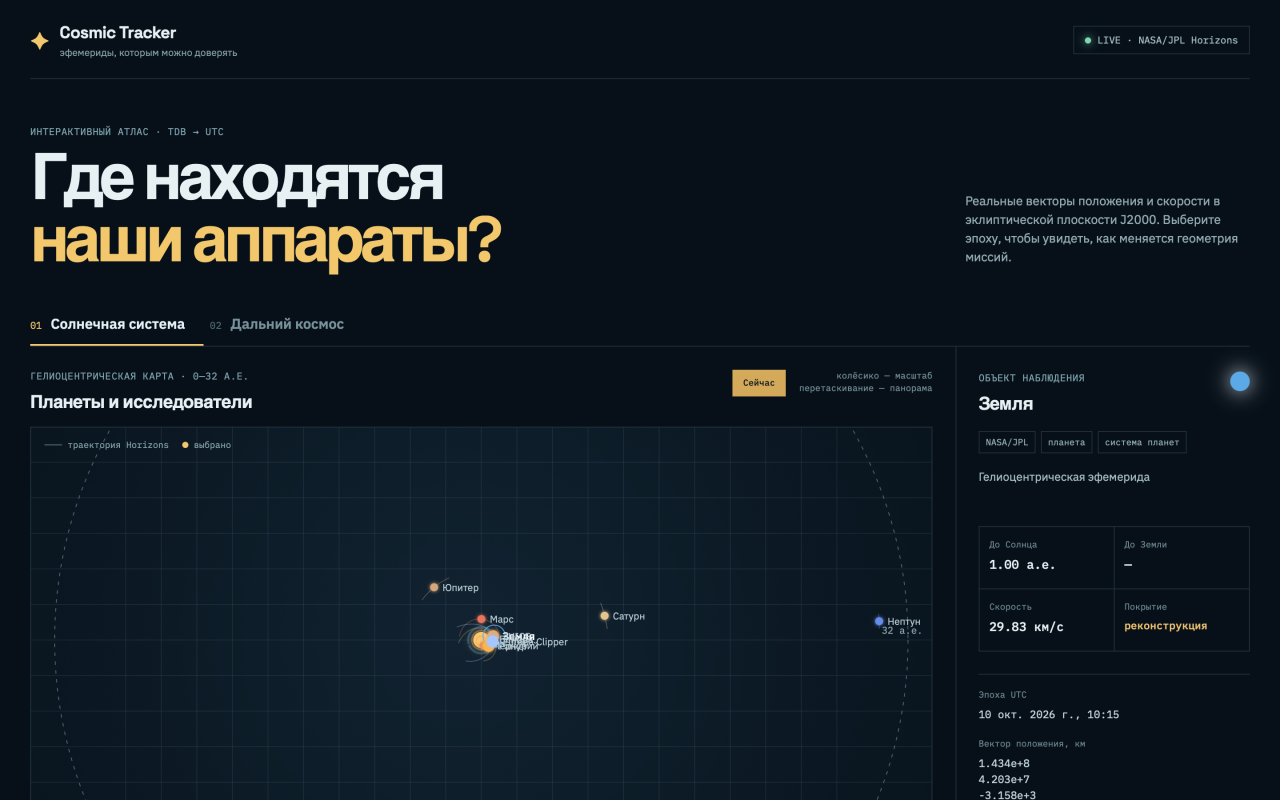
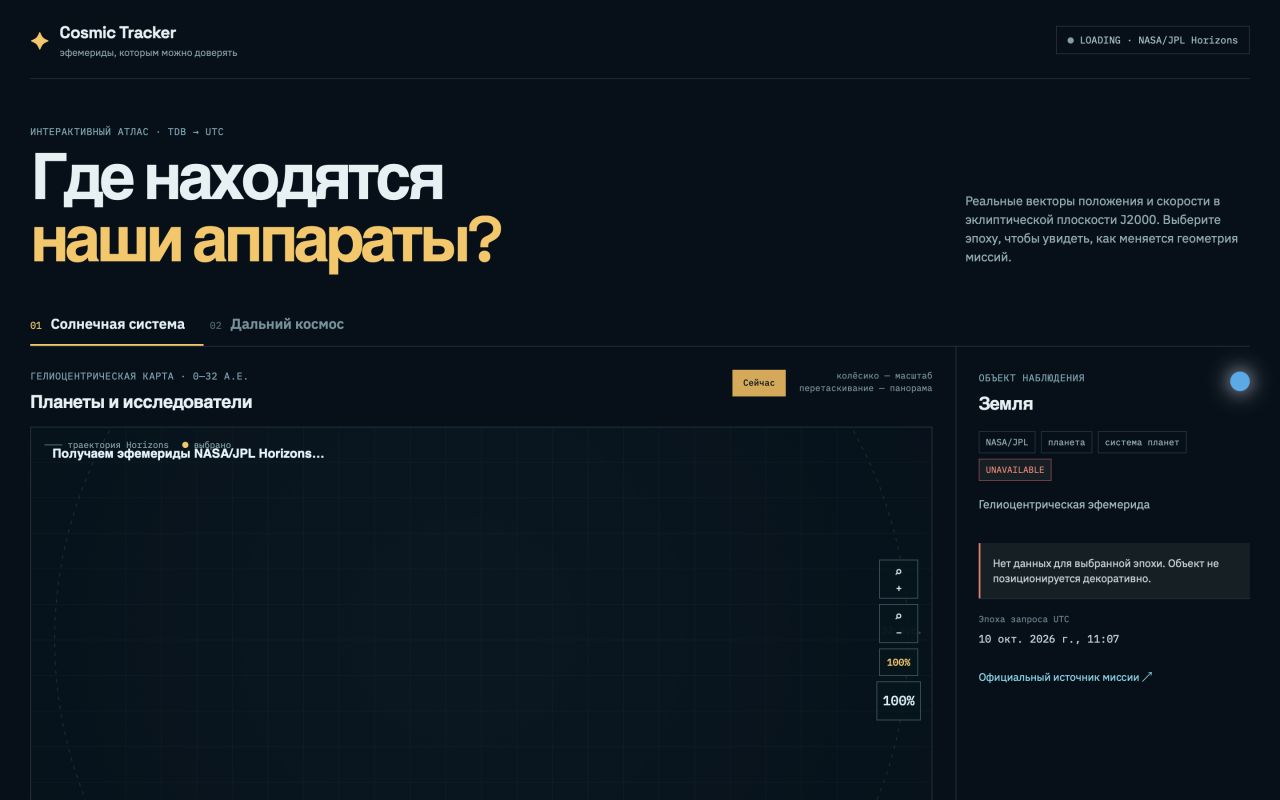
test: record map interaction smoke checks

diff --git a/docs/ACCEPTANCE.md b/docs/ACCEPTANCE.md
@@ -6,11 +6,15 @@
 - [x] Векторы и вычисляемые расстояния/скорость отображаются в карточке.
 - [x] Ошибка API не маскируется фиктивной текущей позицией.
 - [x] Ручная браузерная проверка после локального запуска.
+- [x] Одинаковые controls zoom: +/− x1.25, текущий процент и reset 100% на обеих картах.
+- [x] Проверены кнопки + (125%) и 100% (100%) через accessibility tree; Canvas поддерживает pointer pan/pinch и клавиатуру.
+- [x] Playback использует загруженный ряд; Hermite interpolation и границы UTC/TDB покрыты frontend-тестами.
+- [x] API ограничивает размер запроса и отдельно тестирует simulated Horizons timeout.
 - [ ] VPS/reverse proxy audit и production deployment — отдельный согласованный этап.
 
 ## Фактическая проверка
 
-- [x] Screenshots сохранены в `screenshots/solar-system-live.png` и `screenshots/deep-space-voyager1.png`.
+- [x] Screenshots сохранены в `screenshots/solar-system-live.png` и `screenshots/deep-space-live.png`.
 - [x] Voyager 1 в ручной проверке показал 171.52 а.е. до Солнца, 171.25 а.е. до Земли и 16.92 км/с.
 - [x] Live smoke получил Earth, Parker Solar Probe и Voyager 1 из Horizons; sampled trajectories возвращают несколько epoch points.
 

diff --git a/CHANGELOG.md b/CHANGELOG.md
@@ -18,4 +18,5 @@
 - Стабилизирован Canvas: state-driven render без synthetic resize, Retina bitmap, zoom/pan/pinch, клавиатура и кнопки масштаба 100%.
 - Добавлена Hermite-интерполяция state vectors, явные sampled/hermite метаданные и оценка ошибки; временная шкала больше не запрашивает NASA на каждый кадр.
 - Добавлены bounded API-запросы, статусы по объектам и тесты NASA timeout/ограничений.
+- Обновлены acceptance screenshots после браузерной smoke-проверки обеих карт и проверены zoom 125%/100%.
 - Планируется cross-check через SPICE, расширение каталога и дальнейшая подготовка к VPS deployment.
